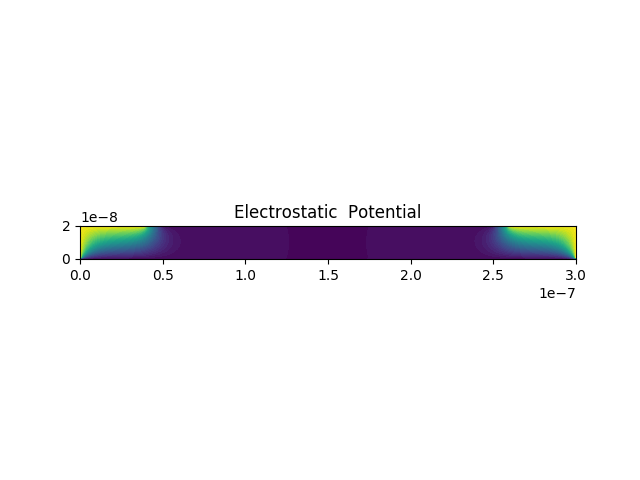
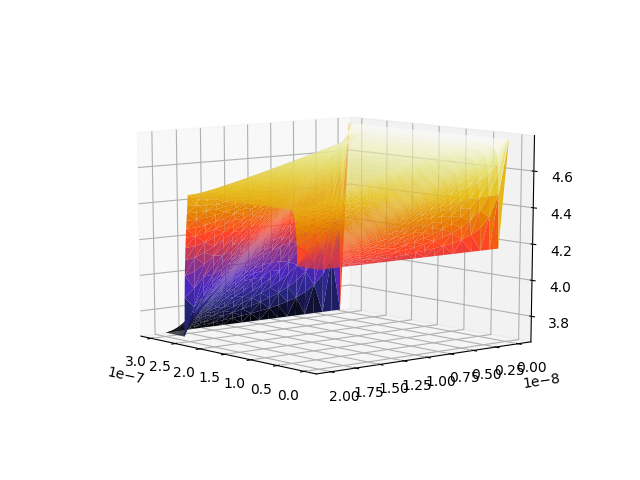
add matplotlib figure

Changed region(s): [[0.0938, 0.25, 0.9062, 0.8438], [0.3125, 0.7812, 0.4062, 0.8125], [0.4062, 0.8125, 0.4688, 0.8438]]

diff --git a/schrodinger_poisson/schrodinger_fenics.py b/schrodinger_poisson/schrodinger_fenics.py
@@ -1,4 +1,5 @@
 from __future__ import print_function
+from scipy.integrate import simps
 import matplotlib
 matplotlib.use('Agg')
 import matplotlib.pyplot as plt
@@ -26,6 +27,56 @@ def makeHamiltonian(ny, dy, potential):
             if j >= 1 and j <= ny+1:
                 hamiltonian[i, j] = v
     return hamiltonian
+
+
+def schrodinger_test(mesh, potential, device, cons):
+    N = device.ny 
+    L = device.yfi
+    x, dx = np.linspace(0, L, N), L / N
+
+    potential = np.array([-1 * i for i in potential.vector()[:]])
+    potential = np.reshape(potential, (device.ny+1,device.nx+1))
+
+    np.savetxt("potential.csv", potential)
+
+    #potential = potential.flatten()
+
+    #wavefunction = np.empty((potential.shape[0], potential.shape[1]))
+
+    """
+    for (index, p) in enumerate(potential):
+        vector = p
+        H = makeHamiltonian(ny, dy, vector)
+        w, v = np.linalg.eigh(H)
+        wavefunction[index][:] = v[:,0]
+    """
+
+    #plt.plot(x, v.T[0] / simps(v.T[0]**2, x)**0.5, label="gradn state")
+    plt.savefig("wavefunction.png")
+
+    """
+    np.savetxt("array.csv", wavefunction)
+    wavefunction = wavefunction.T
+    wavefunction = wavefunction.flatten()
+
+    rectangle_mesh = device.RectangleMeshCreate()
+    V = FunctionSpace(rectangle_mesh, 'CG', 1)
+
+    u = Function(V)
+
+    u.vector()[:] = np.array([i for i in wavefunction])
+    plot(u)
+    plt.savefig("wavefunction.png")
+
+    file = File("wavefunction.pvd")
+    file << u
+
+    return u
+    """
+
+
+
+
 
 # Use SymPy to compute f from the manufactured solution u
 def schrodinger_2d(mesh, potential, device, cons):
@@ -60,22 +111,13 @@ def schrodinger_2d(mesh, potential, device, cons):
     v = TestFunction(V)
     Vpot = Function(V)
 
-    Vpot.vector()[:] = np.array([-i for i in potential.vector()])
+    Vpot.vector()[:] = np.array([-1 * i for i in potential.vector()])
 
     # p.vector()[:] = np.array([i for i in potential.vector()])
     temp = -1 * pow(cons.HBAR, 2) / (2*device.material["electron_effective_mass"]*cons.M)
 
     a = (inner(temp * grad(u), grad(v)) + Vpot*u*v)*dx(0)
     m = u*v*dx(0)
-
-    """
-    A = PETScMatrix()
-    assemble(a, tensor=A)
-    M = PETScMatrix()
-    assemble(m, tensor=M)
-    bc.apply(A)          # apply the boundary conditions
-    bc.apply(M)
-    """
 
     A = PETScMatrix()
     M = PETScMatrix()
@@ -88,7 +130,7 @@ def schrodinger_2d(mesh, potential, device, cons):
     # Compute solution
     # Create eigensolver
     eigensolver = SLEPcEigenSolver(A,M)
-    eigensolver.parameters["problem_type"] = "gen_hermitian"
+    #eigensolver.parameters["problem_type"] = "gen_hermitian"
     eigensolver.parameters['spectrum'] = 'smallest magnitude'
     eigensolver.parameters['solver']   = 'lapack'
     eigensolver.parameters['tolerance'] = 1.e-15
@@ -97,8 +139,12 @@ def schrodinger_2d(mesh, potential, device, cons):
     eigensolver.solve()
 
     u = Function(V)
+    eigenvectors = []
+    eigenvalues = []
+    rx_list = []
+
+    # extract first eigenpair
     r, c, rx, cx = eigensolver.get_eigenpair(0)
-    print('eigenvalue: '+ str(r))
 
     #assign eigenvector to function
     u.vector()[:] = rx
@@ -109,18 +155,29 @@ def schrodinger_2d(mesh, potential, device, cons):
     # Save solution in VTK format
     file = File("wavefunction.pvd")
     file << u
-    """
-    for i in range(0,1):
+
+    i = 0
+    while (i < eigensolver.get_number_converged() and r < 1.8):#fermiEnergy):
         #extract next eigenpair
         r, c, rx, cx = eigensolver.get_eigenpair(i)
-        print('eigenvalue: '+ str(r))
-
         #assign eigenvector to function
+        #rx = np.array([q*xsi_factor for q in rx])
+        #if(r > 0.24):
+        #  break
+        
         u.vector()[:] = rx
-
-        plot(u)
-        plt.savefig("schrodinger-fenics.png")
-    """
+        eigenvalues.append(r)
+        eigenvectors.append([j for j in u.vector()])
+        
+        rx_list.append(rx) 
+        
+        #plot eigenfunction
+        print('eigenvalue: ' + str(r))
+        #plot(u).update(u)
+        #interactive()
+    
+        #increment i
+        i = i+1
 
 
 def schrodinger(mesh, potential, device, cons):
@@ -143,7 +200,7 @@ def schrodinger(mesh, potential, device, cons):
 
     #potential = potential.flatten()
 
-    wavefunction = np.empty((potential.shape[1], potential.shape[0]))
+    wavefunction = np.empty((potential.shape[0], potential.shape[1]))
 
     for (index, p) in enumerate(potential):
         # Create mesh and define function space
@@ -152,15 +209,10 @@ def schrodinger(mesh, potential, device, cons):
         print("Starting Schrodinger Wave Function")
         V = FunctionSpace(mesh, 'CG', 1)
 
-        def boundary(x, on_boundary):
-            return on_boundary
 
         # Initialize mesh function for interior domains
         domains = CellFunction("size_t", mesh)
         domains.set_all(0)
-        c = Constant(0)
-
-        bc = DirichletBC(V, c, boundary)
 
         dx = Measure("dx", subdomain_data=domains)
 
@@ -193,8 +245,6 @@ def schrodinger(mesh, potential, device, cons):
 
         assemble_system(a, L, A_tensor=A, b_tensor=_)
         assemble_system(m, L, A_tensor=M, b_tensor=_)
-        bc.apply(A)          # apply the boundary conditions
-        bc.apply(M)
 
         # Compute solution
         # Create eigensolver
@@ -213,17 +263,23 @@ def schrodinger(mesh, potential, device, cons):
         #assign eigenvector to function
         wavefunction[index][:] = rx
 
-    potential = potential.flatten()
+    wavefunction = wavefunction.T
+    print(wavefunction)
+    wavefunction = wavefunction.flatten()
 
     rectangle_mesh = device.RectangleMeshCreate()
     V = FunctionSpace(rectangle_mesh, 'CG', 1)
 
     u = Function(V)
 
-    u.vector()[:] = potential
+    u.vector()[:] = np.array([i for i in wavefunction])
     plot(u)
     plt.savefig("wavefunction.png")
+
+    file = File("wavefunction.pvd")
+    file << u
         
+    return u
 """
         for i in range(0,subband_number):
             eigen_value[i][index][:] = eigenvalue[i]

diff --git a/schrodinger_poisson/poisson_bcs.py b/schrodinger_poisson/poisson_bcs.py
@@ -12,6 +12,7 @@ import numpy as np
 from mpl_toolkits.mplot3d import Axes3D
 import scipy
 import bias
+import matplotlib.animation as animation
 
 # Warning: from fenics import * will import both `sym` and
 # `q` from FEniCS. We therefore import FEniCS first and then
@@ -67,9 +68,20 @@ def poissonSolverTest(mesh, dopant, device, cons):
 
     V = FunctionSpace(mesh, 'CG', 1)
 
-    applied_volatage = 0.0
+    # plot with matplotlib instead of paraview
+    n = V.dim()
+    d = mesh.geometry().dim()
+
+    dof_coordinates = V.tabulate_dof_coordinates()
+    dof_coordinates.resize((n, d))
+    dof_x = dof_coordinates[:, 0]
+    dof_y = dof_coordinates[:, 1]
+
+
+    # calculate contact bias
+    applied_volatage = 0.3
     u_gate = bias.bias(device, "Schottky", applied_volatage)
-    u_drain = bias.bias(device, "Ohmic", 0.0)
+    u_drain = bias.bias(device, "Ohmic", 0.5)
     u_source = bias.bias(device, "Ohmic", 0.0)
     u_bottom = bias.bias(device, "Schottky", 0.0)
 
@@ -117,8 +129,21 @@ def poissonSolverTest(mesh, dopant, device, cons):
 
     u = interpolate(u, V)
 
-    plot(u, title = "Electrostatic  Potential")
+    fig = plt.figure()
+    ax = fig.gca(projection="3d")
+    u_array = -1 * u.vector().array()
+    ax.plot_trisurf(dof_x, dof_y, u_array, linewidth=0.2, antialiased=True, cmap=plt.cm.CMRmap)
+    ax.view_init(10, -220)
+
+        
+    """
+    print("Making Animation")
+    rot_animation = animation.FuncAnimation(fig, rotate)
+    rot_animation.save('rotation.gif', writer='imagemagick')
+    """
+
     plt.savefig("electrostatic_potential.png")
+    plot(u, title = "Electrostatic  Potential")
 
     # Save solution in VTK format
     file = File("poisson.pvd")

diff --git a/schrodinger_poisson/main.py b/schrodinger_poisson/main.py
@@ -158,9 +158,9 @@ if __name__ == "__main__":
     potential = np.reshape(temp, (device.nx+1,device.ny+1))
     new_potential = np.reshape(new_potential, (device.nx+1,device.ny+1))
     """
-    mesh = device.IntervalMeshCreate()
+    #mesh = device.IntervalMeshCreate()
     # interval_mesh = device.IntervalMeshCreate()
     # schrodinger_fenics.schrodinger_2d(rectangle_mesh, potential, device, constant)
-    #schrodinger_fenics.schrodinger(mesh, potential, device, constant)
+    #schrodinger_fenics.schrodinger_2d(rectangle_mesh, potential, device, constant)
     #plotter.plot_wave_function(device, rectangle_mesh, wavefunction)
     

diff --git a/README.md b/README.md
@@ -18,7 +18,7 @@
 Using FEniCS which is a science compuing library to calculate with fenite element method for solving partial difference equation. The goal is solving self-consistent problem about poisson equation and schrodinger equation in an inversion layer of Germanium channel ultran thin mosfet.
 
 
-![2019-01-17 0 58 29](https://user-images.githubusercontent.com/27273842/51261624-f20a0100-19f3-11e9-82f7-1f2022c3261f.png)
+![electrostatic_potential](https://user-images.githubusercontent.com/27273842/51325994-84240f00-1ab1-11e9-8bf8-306328d8e211.png)
 
 we have to consider boudary conditon based on semiconductor physics not only considering electron distribution.
 
